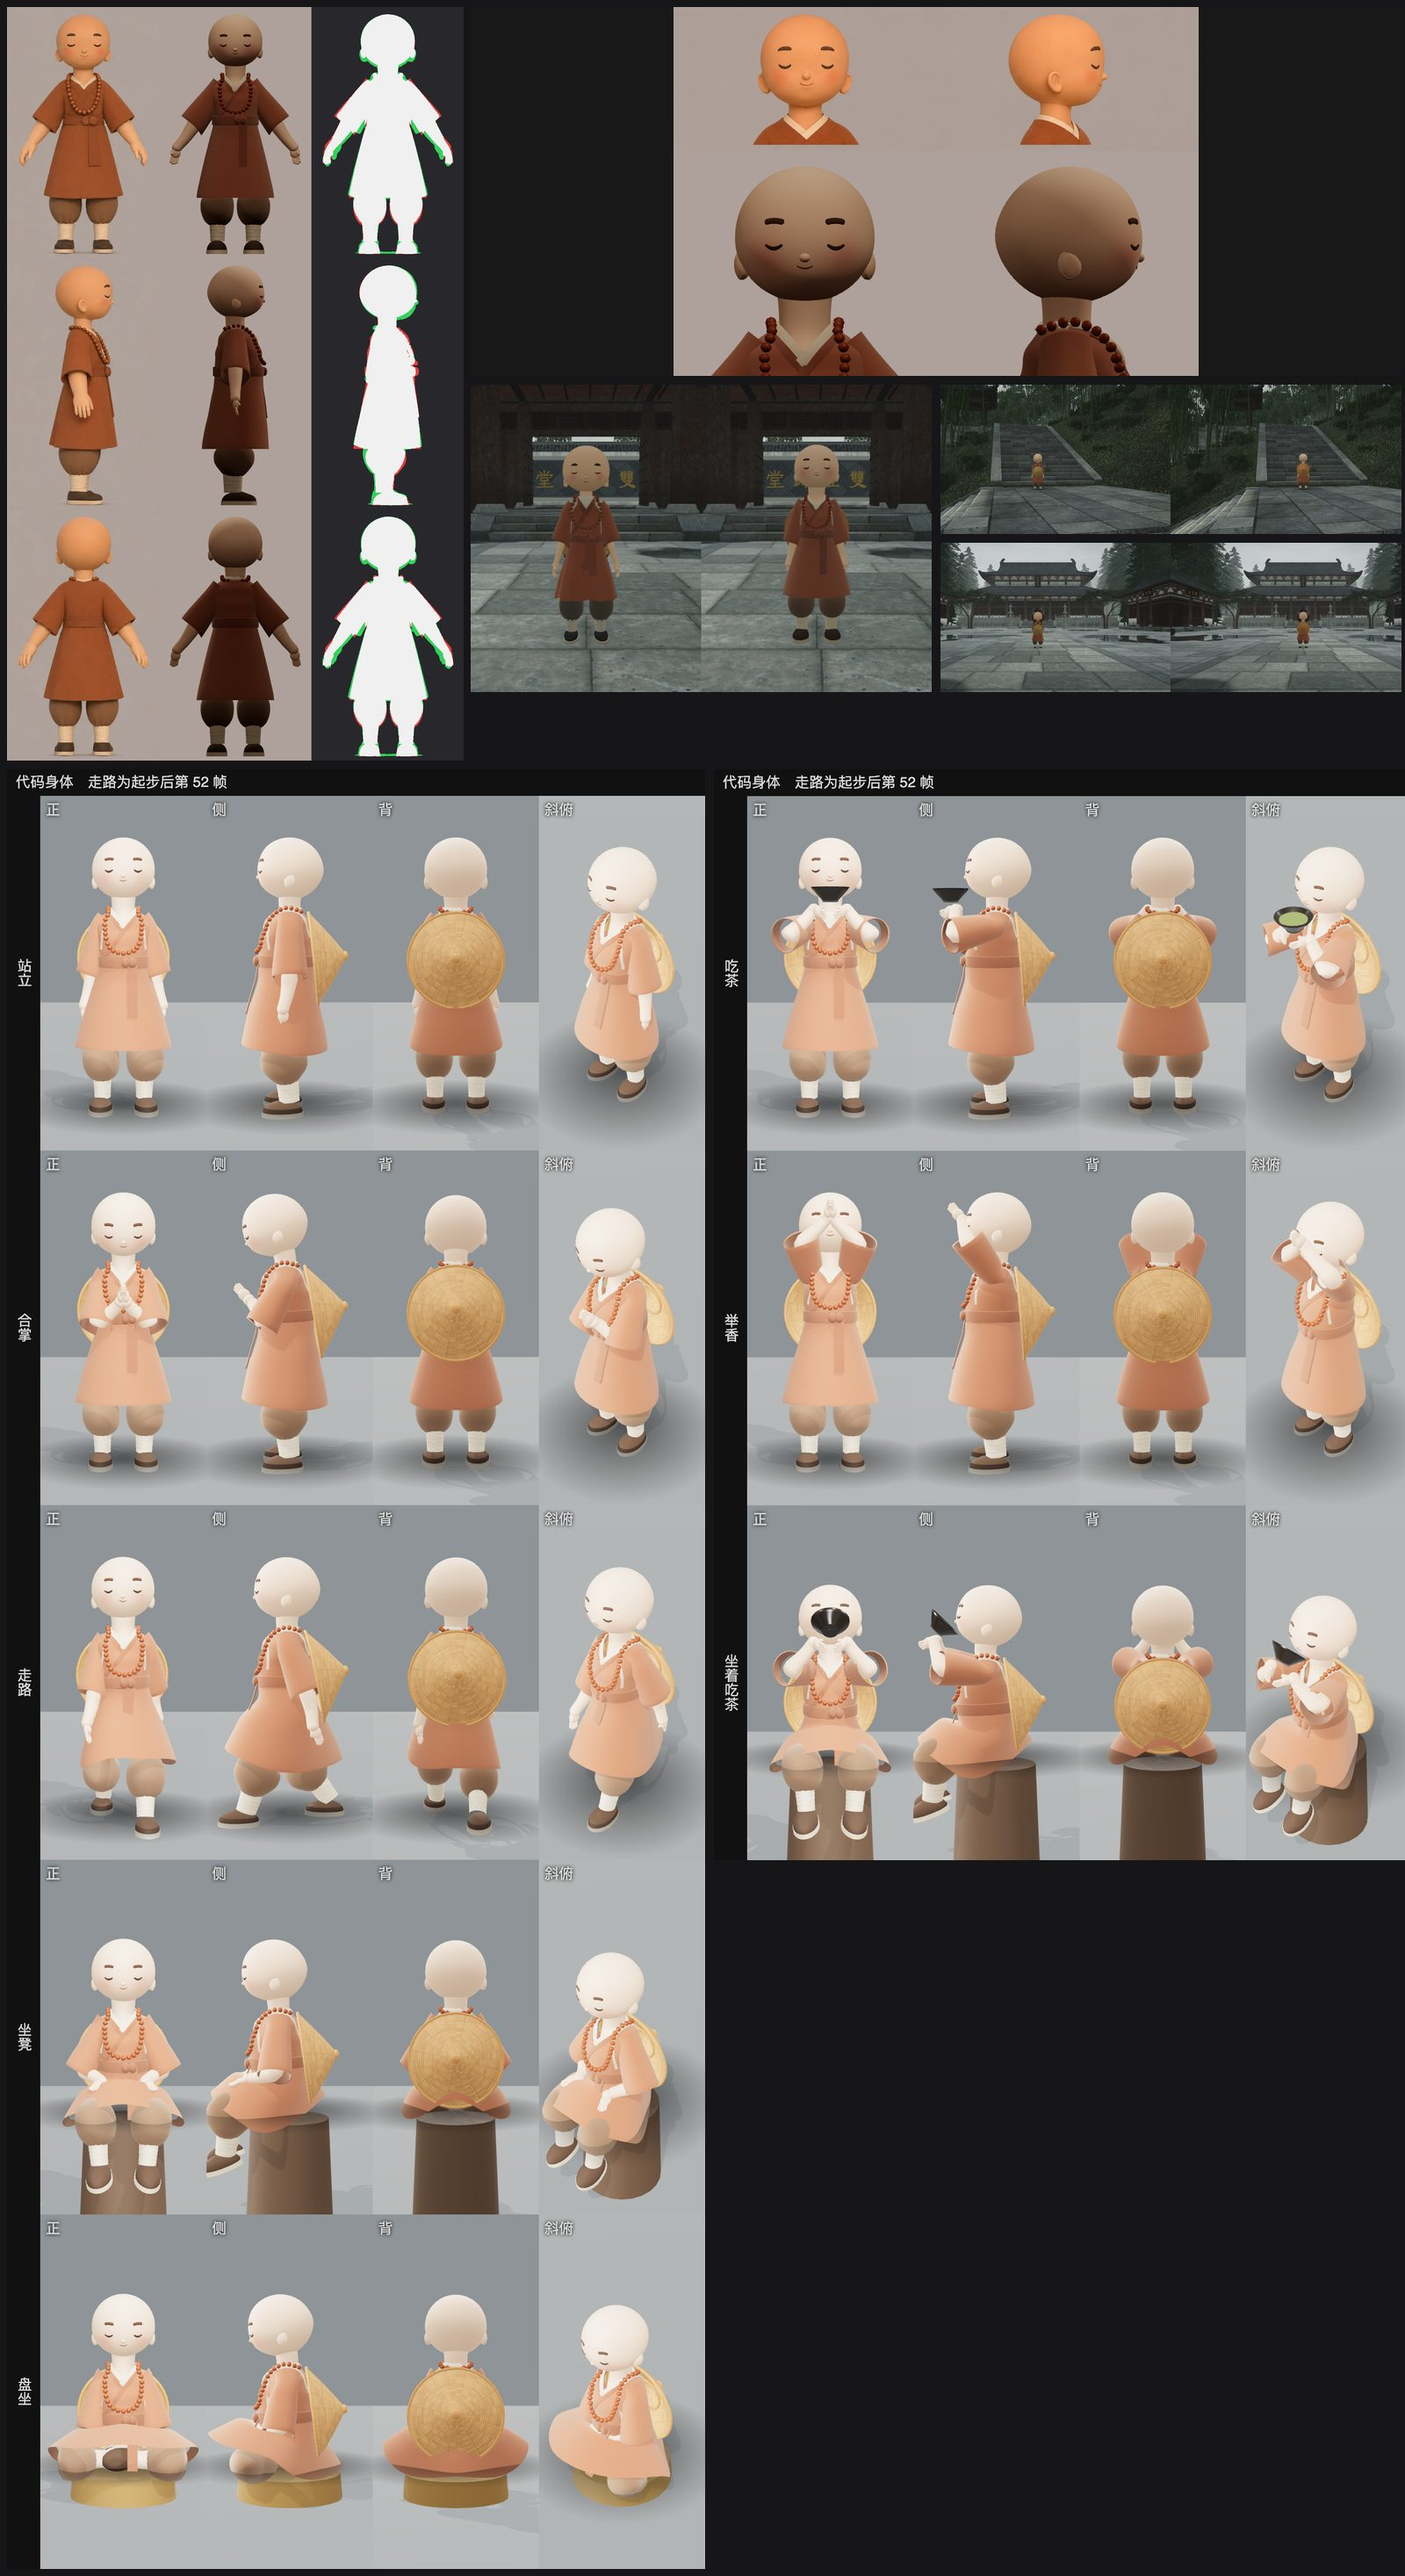
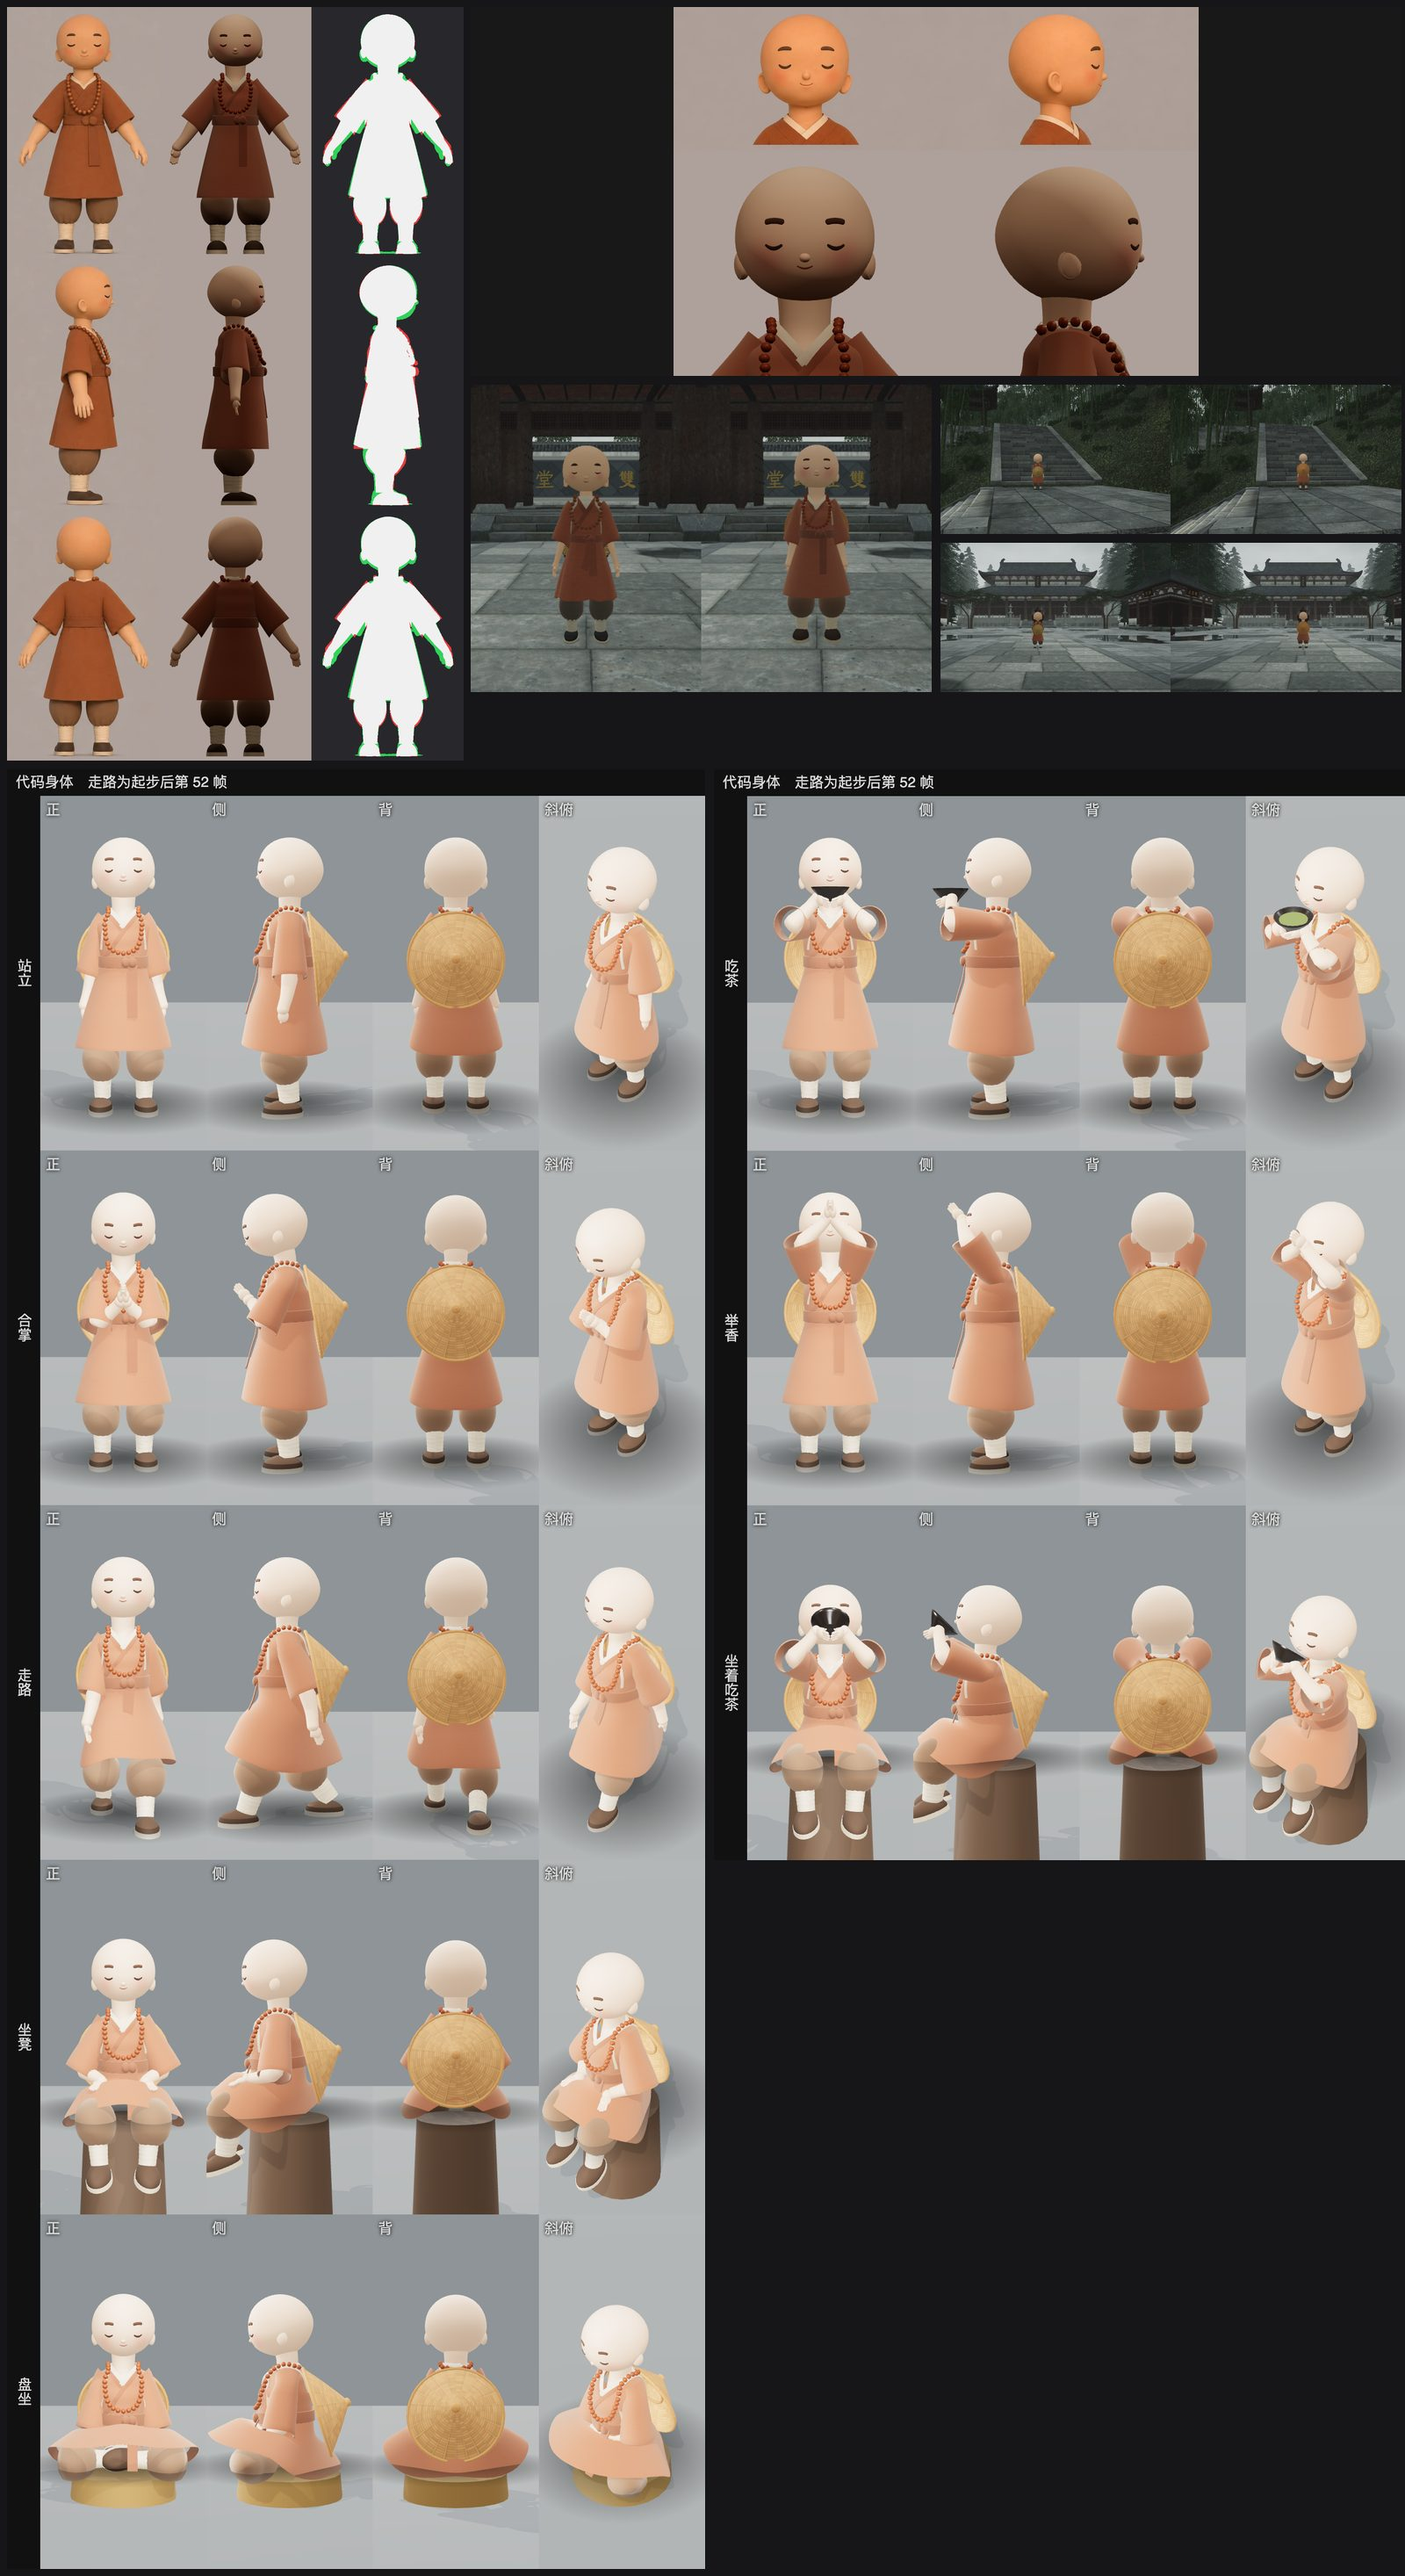
fix(novice): 修复吃茶捧碗悬空与盘坐/坐凳背视图斗笠穿袍 (#642)

diff --git a/tools/novice-stage/stage.js b/tools/novice-stage/stage.js
@@ -90,7 +90,8 @@ const POSES = {
   tea: (m) => hold(m, (B, act) => {
     const mouth = B.head.localToWorld(new THREE.Vector3(0, 0.052, 0.128)), cup = mouth.sub(new THREE.Vector3(0, 0.06, -0.07));
     bowl.position.copy(cup); bowl.quaternion.identity(); scene.add(bowl);
-    for (const [n, s] of [["left", 1], ["right", -1]]) { const h = act.hands[n]; h.at.set(s * 0.068, -0.025, -0.025).add(cup); h.fingers.set(-s * 0.45, 0.15, 1).normalize(); h.palm.set(-s, 0.25, 0).normalize(); h.w = 1; }
+    const [hx, hy, hz] = stage.hold || (m.dressed ? [0.068, -0.025, -0.025] : [0.054, 0.02, -0.008]);
+    for (const [n, s] of [["left", 1], ["right", -1]]) { const h = act.hands[n]; h.at.set(s * hx, hy, hz).add(cup); h.fingers.set(-s * 0.45, 0.15, 1).normalize(); h.palm.set(-s, 0.25, 0).normalize(); h.w = 1; }
   }),
   // the tea as it is drunk, seated on his stool: `stage.tea` = [tilt, nod] of the bowl at his lips (#286; rites.js tilts
   // it to 0.78 with the head back 0.24)
@@ -98,7 +99,7 @@ const POSES = {
     const [tilt, nod] = stage.tea || [0.78, -0.24]; act.nod = nod;
     const q = new THREE.Quaternion().setFromAxisAngle(new THREE.Vector3(1, 0, 0), -tilt), mouth = B.head.localToWorld(new THREE.Vector3(0, 0.052, 0.128)), cup = mouth.sub(new THREE.Vector3(0, 0.06, -0.07).applyQuaternion(q));
     bowl.position.copy(cup); bowl.quaternion.copy(q); scene.add(bowl);
-    const [hx, hy, hz] = stage.hold || [0.068, -0.025, -0.025];   // rites.js's grip (hold()), in the bowl's frame
+    const [hx, hy, hz] = stage.hold || (m.dressed ? [0.068, -0.025, -0.025] : [0.054, 0.02, -0.008]);   // rites.js's grip (hold()), in the bowl's frame
     for (const [n, s] of [["left", 1], ["right", -1]]) { const h = act.hands[n]; h.at.set(s * hx, hy, hz).applyQuaternion(q).add(cup); h.fingers.set(-s * 0.45, 0.15, 1).normalize(); h.palm.set(-s, 0.25, 0).normalize(); h.w = 1; }
   }, "chair", -0.44),
   incense: (m) => hold(m, (B, act) => { for (const [n, s] of [["left", 1], ["right", -1]]) { const h = act.hands[n]; const [by, bz] = stage.brow || [0.15, 0.15]; B.head.localToWorld(h.at.set(s * 0.0125, by, bz)); h.fingers.set(0, 1, 0.25).normalize(); h.palm.set(-s, 0, 0); h.w = 1; } }),

diff --git a/app/src/rites.js b/app/src/rites.js
@@ -199,7 +199,7 @@ export function createRites(y, fast = 1, { burn = 300, onPlant = (/** @type {num
   // They turn with the bowl as he tilts it to drink; held at its sides above the foot (0.034 up, 0.012 out, as they were
   // until #286), they went round with it at the full tilt and came up over his eyes, 4.5 cm above their lower edge.
   // Held here they stay 2.3 cm below it the whole drink (tests/unit/rites-tea.test.mjs).
-  const hold = () => HANDS.forEach(([n, s]) => { const h = act.hands[n]; h.at.set(s * 0.068, -0.025, -0.025).applyQuaternion(cup.quaternion).add(cup.position); dir(-s * 0.45, 0.15, 1, h.fingers); dir(-s, 0.25, 0, h.palm); });
+  const hold = () => { const [hx, hy, hz] = y.monk.dressed ? [0.068, -0.025, -0.025] : [0.054, 0.02, -0.008]; HANDS.forEach(([n, s]) => { const h = act.hands[n]; h.at.set(s * hx, hy, hz).applyQuaternion(cup.quaternion).add(cup.position); dir(-s * 0.45, 0.15, 1, h.fingers); dir(-s, 0.25, 0, h.palm); }); };
   const cupAt = (p, tilt) => { tea.tilt = tilt; cup.quaternion.copy(G.quaternion).multiply(qA.setFromAxisAngle(V(1, 0, 0), -tilt)); cup.position.copy(p); };
   const toLips = (out) => mouthAt(out).sub(tB.copy(rim).applyQuaternion(cup.quaternion));
   /** @param {() => boolean} on @param {(what: string) => void} [cue] */

diff --git a/app/src/monk.js b/app/src/monk.js
@@ -1033,7 +1033,7 @@ export function createMonk(opts = {}) {
       B.robeLeft.scale.y = B.robeRight.scale.y = 1 - 0.14 * seat - 0.14 * perch;
       // Seated, the sash's ends fall into his lap rather than ride out on the skirt.
       B.sashTail.rotation.set(B.robeFront.rotation.x * (1 - 0.6 * sitW) + springs.tailX.step(0.07 * speed + 0.05 * Math.abs(Math.sin(phase)) * gait, dt), 0, springs.tailZ.step(0.09 * Math.sin(phase) * gait + sd, dt));
-      B.hat.rotation.set(Math.max(-0.02, springs.hatX.step(0.04 * gait * Math.abs(Math.cos(phase)) + 0.02 * gait - 0.01 * accel, dt)), 0, springs.hatZ.step(0.05 * Math.sin(phase) * gait - 0.05 * turn, dt));
+      B.hat.rotation.set(Math.max(-0.02, springs.hatX.step(0.04 * gait * Math.abs(Math.cos(phase)) + 0.02 * gait - 0.01 * accel, dt)) + 0.18 * seat + 0.12 * perch, 0, springs.hatZ.step(0.05 * Math.sin(phase) * gait - 0.05 * turn, dt));
       if (surfaceAt && seat < 0.01 && perch < 0.01 && !hop) liftHem(surfaceAt, dt);
 
       // The shadow keeps to the ground and to the sun, whichever way he turns.
